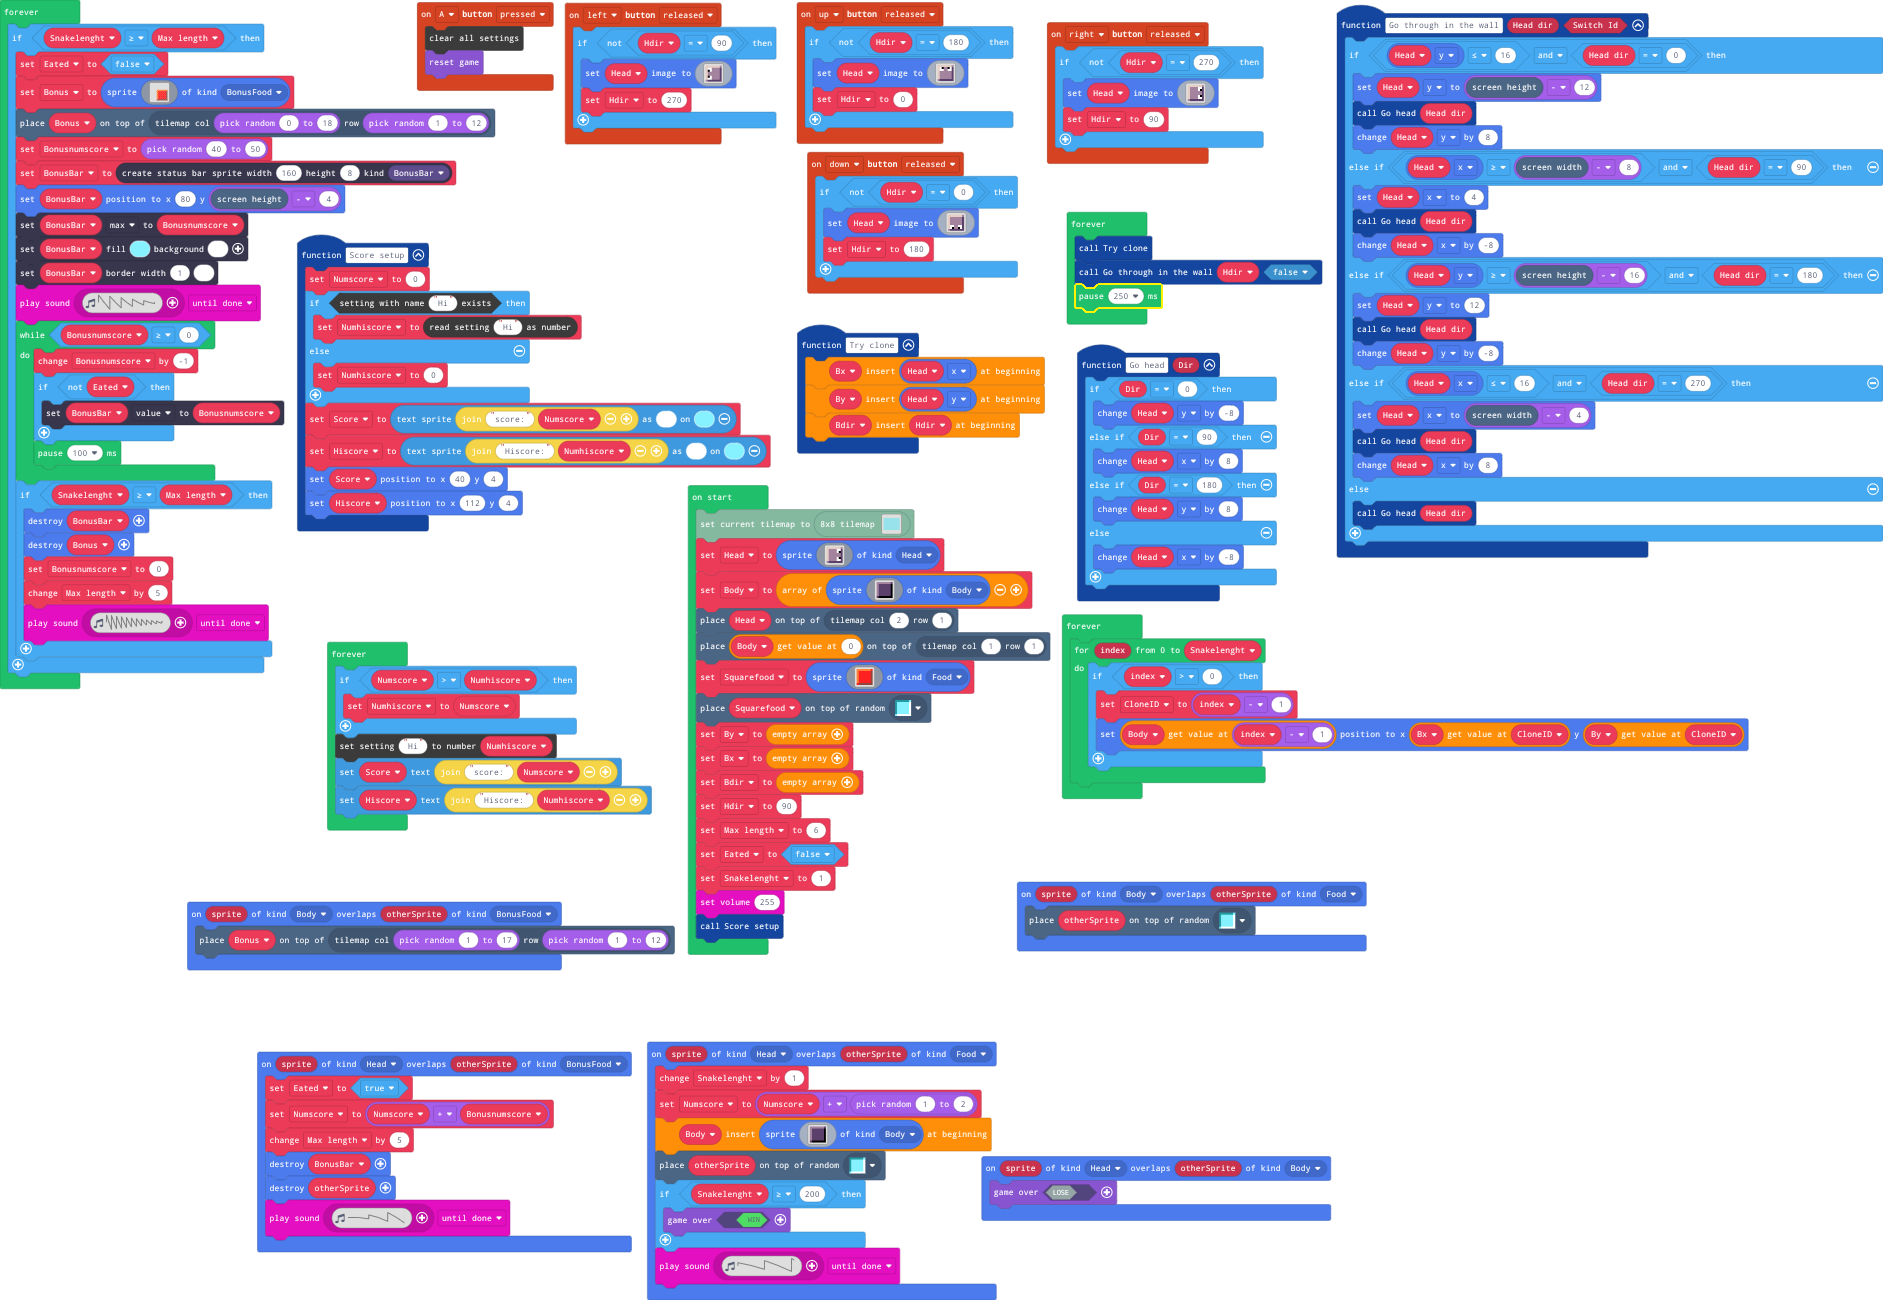
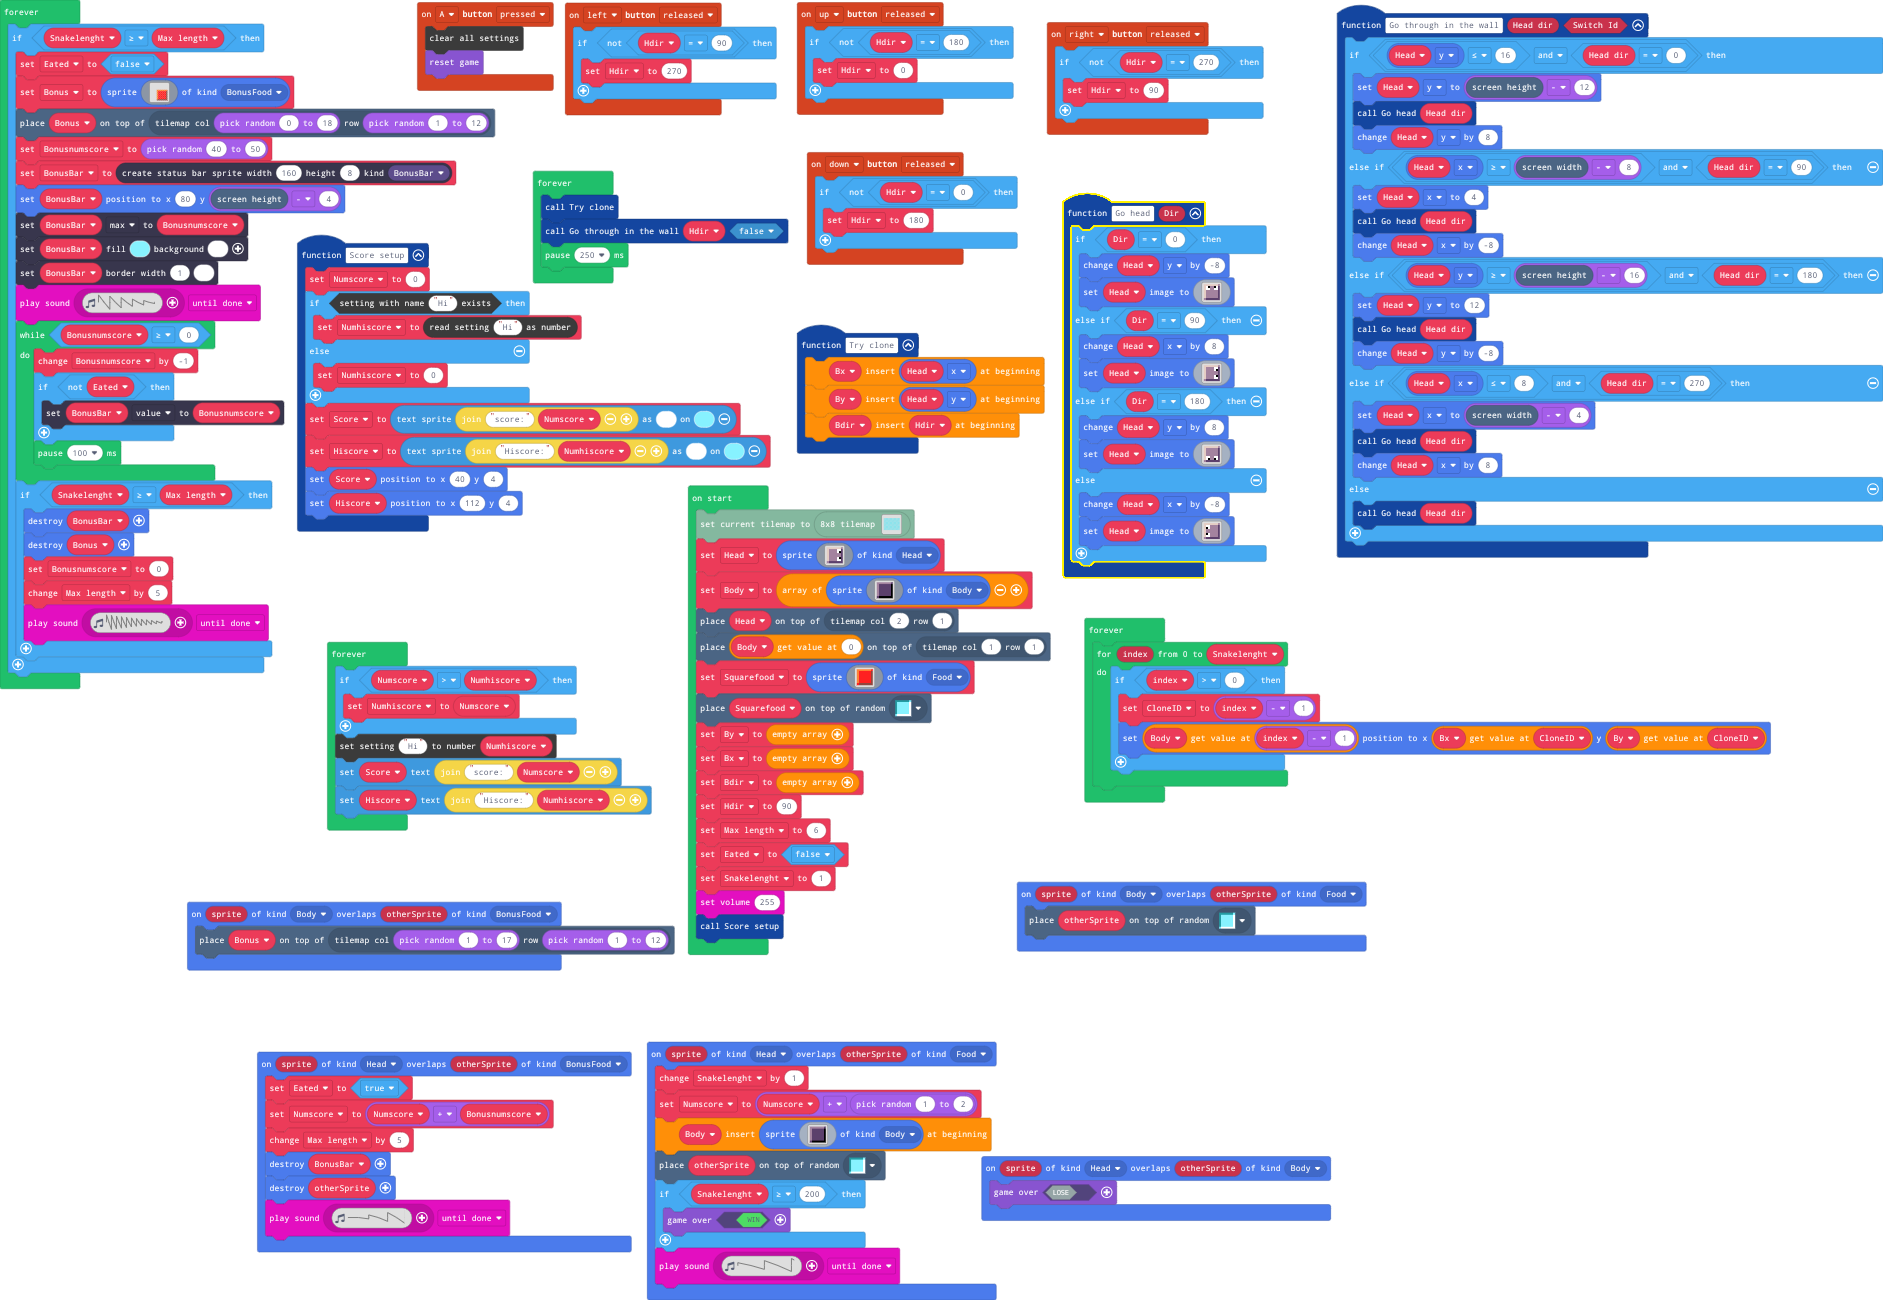
Update main.blocks, main.ts

diff --git a/main.ts b/main.ts
@@ -47,46 +47,16 @@ controller.A.onEvent(ControllerButtonEvent.Pressed, function () {
 })
 controller.down.onEvent(ControllerButtonEvent.Released, function () {
     if (!(Hdir == 0)) {
-        Head.setImage(img`
-            d d d d d d d b 
-            d b b b b b b c 
-            d b b b b b b c 
-            d b b b b b b c 
-            d b b b b b b c 
-            d 1 1 b b 1 1 c 
-            d 1 f b b f 1 c 
-            b c c c c c c c 
-            `)
         Hdir = 180
     }
 })
 controller.right.onEvent(ControllerButtonEvent.Released, function () {
     if (!(Hdir == 270)) {
-        Head.setImage(img`
-            d d d d d d d b 
-            d b b b b 1 1 c 
-            d b b b b 1 f c 
-            d b b b b b b c 
-            d b b b b b b c 
-            d b b b b 1 f c 
-            d b b b b 1 1 c 
-            b c c c c c c c 
-            `)
         Hdir = 90
     }
 })
 controller.left.onEvent(ControllerButtonEvent.Released, function () {
     if (!(Hdir == 90)) {
-        Head.setImage(img`
-            d d d d d d d b 
-            d 1 1 b b b b c 
-            d f 1 b b b b c 
-            d b b b b b b c 
-            d b b b b b b c 
-            d f 1 b b b b c 
-            d 1 1 b b b b c 
-            b c c c c c c c 
-            `)
         Hdir = 270
     }
 })
@@ -106,7 +76,7 @@ function Go_through_in_the_wall (Head_dir: number, Switch_Id: boolean) {
         Head.y = 12
         Go_head(Head_dir)
         Head.y += -8
-    } else if (Head.x <= 16 && Head_dir == 270) {
+    } else if (Head.x <= 8 && Head_dir == 270) {
         Head.x = scene.screenWidth() - 4
         Go_head(Head_dir)
         Head.x += 8
@@ -128,16 +98,6 @@ sprites.onOverlap(SpriteKind.Head, SpriteKind.BonusFood, function (sprite, other
 function Go_head (Dir: number) {
     if (Dir == 0) {
         Head.y += -8
-    } else if (Dir == 90) {
-        Head.x += 8
-    } else if (Dir == 180) {
-        Head.y += 8
-    } else {
-        Head.x += -8
-    }
-}
-controller.up.onEvent(ControllerButtonEvent.Released, function () {
-    if (!(Hdir == 180)) {
         Head.setImage(img`
             d d d d d d d b 
             d 1 f b b f 1 c 
@@ -148,6 +108,46 @@ controller.up.onEvent(ControllerButtonEvent.Released, function () {
             d b b b b b b c 
             b c c c c c c c 
             `)
+    } else if (Dir == 90) {
+        Head.x += 8
+        Head.setImage(img`
+            d d d d d d d b 
+            d b b b b 1 1 c 
+            d b b b b 1 f c 
+            d b b b b b b c 
+            d b b b b b b c 
+            d b b b b 1 f c 
+            d b b b b 1 1 c 
+            b c c c c c c c 
+            `)
+    } else if (Dir == 180) {
+        Head.y += 8
+        Head.setImage(img`
+            d d d d d d d b 
+            d b b b b b b c 
+            d b b b b b b c 
+            d b b b b b b c 
+            d b b b b b b c 
+            d 1 1 b b 1 1 c 
+            d 1 f b b f 1 c 
+            b c c c c c c c 
+            `)
+    } else {
+        Head.x += -8
+        Head.setImage(img`
+            d d d d d d d b 
+            d 1 1 b b b b c 
+            d f 1 b b b b c 
+            d b b b b b b c 
+            d b b b b b b c 
+            d f 1 b b b b c 
+            d 1 1 b b b b c 
+            b c c c c c c c 
+            `)
+    }
+}
+controller.up.onEvent(ControllerButtonEvent.Released, function () {
+    if (!(Hdir == 180)) {
         Hdir = 0
     }
 })
